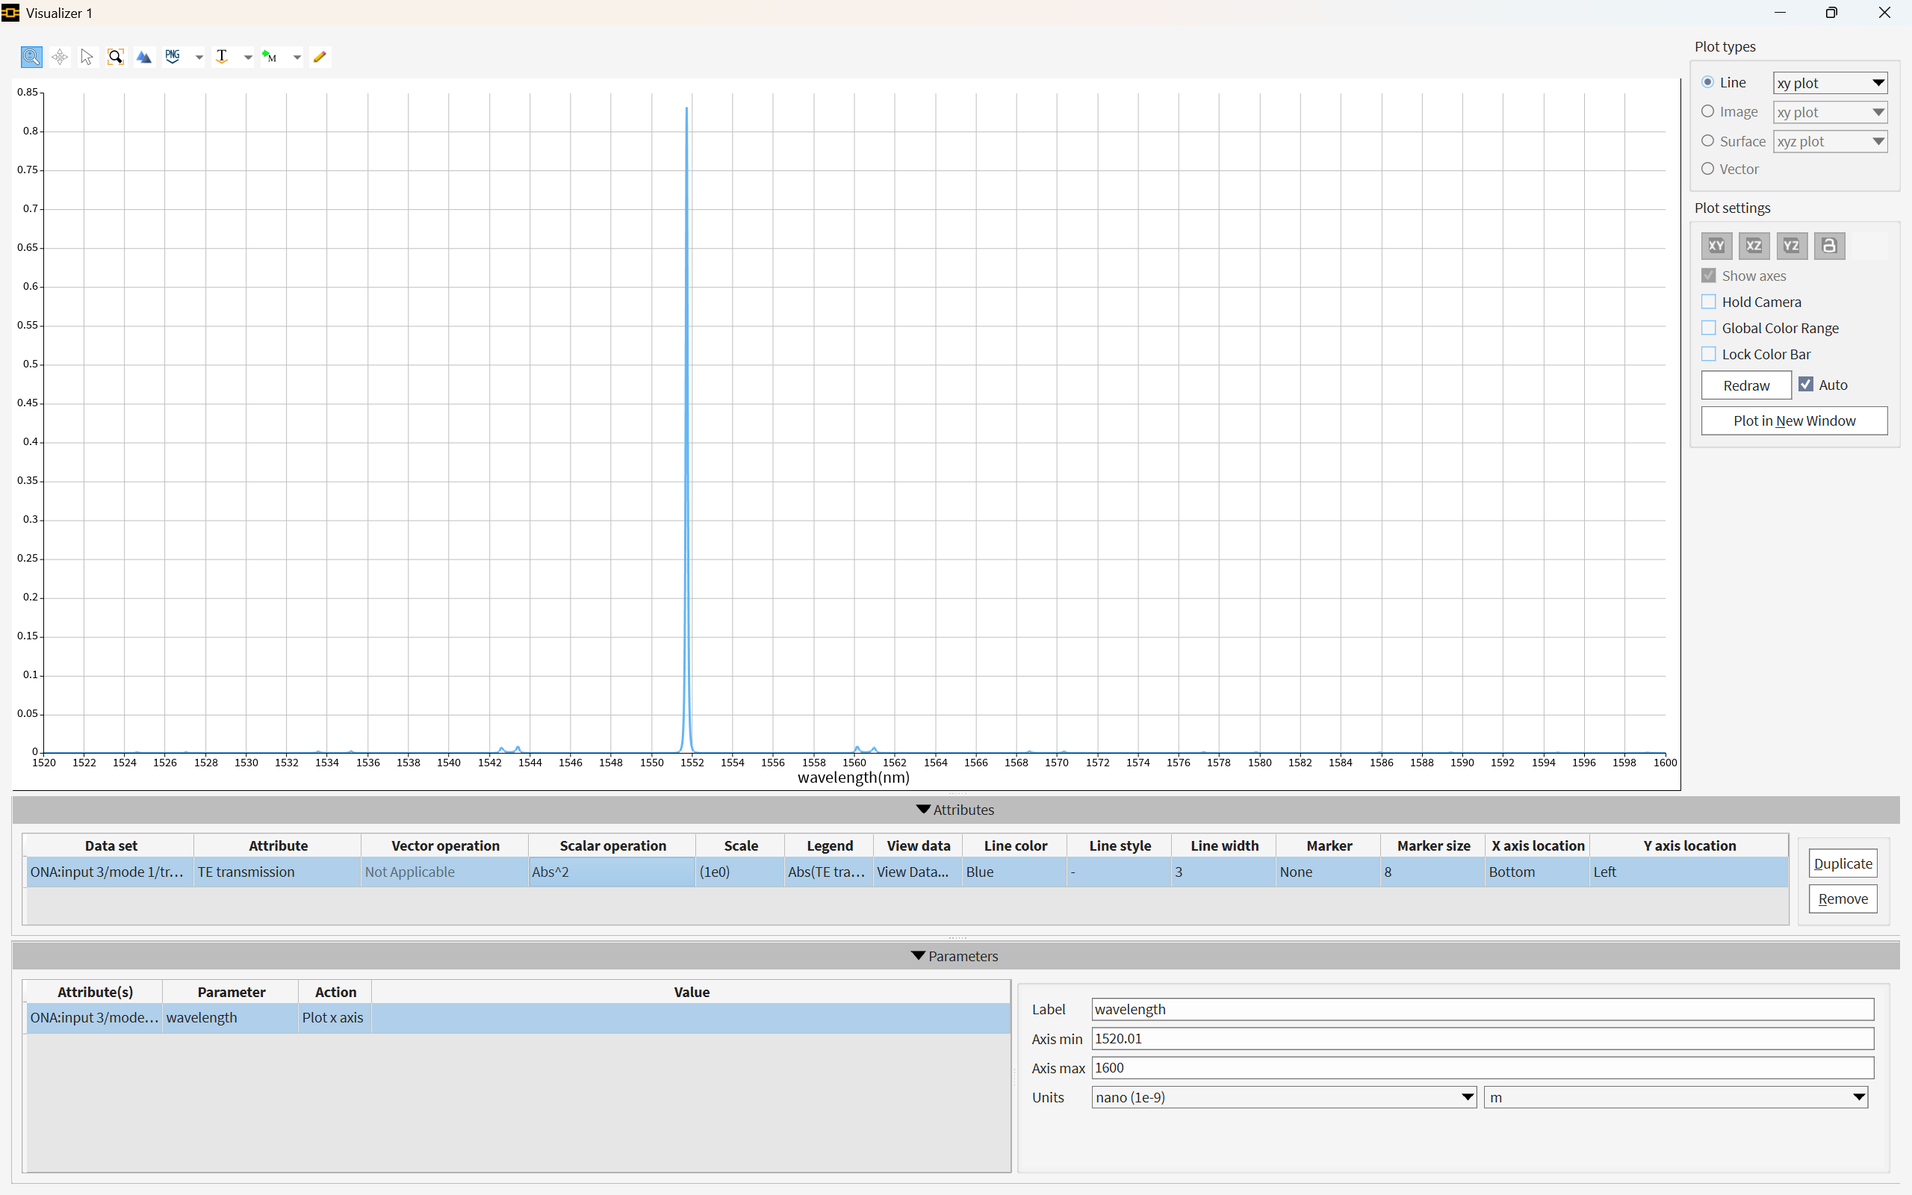
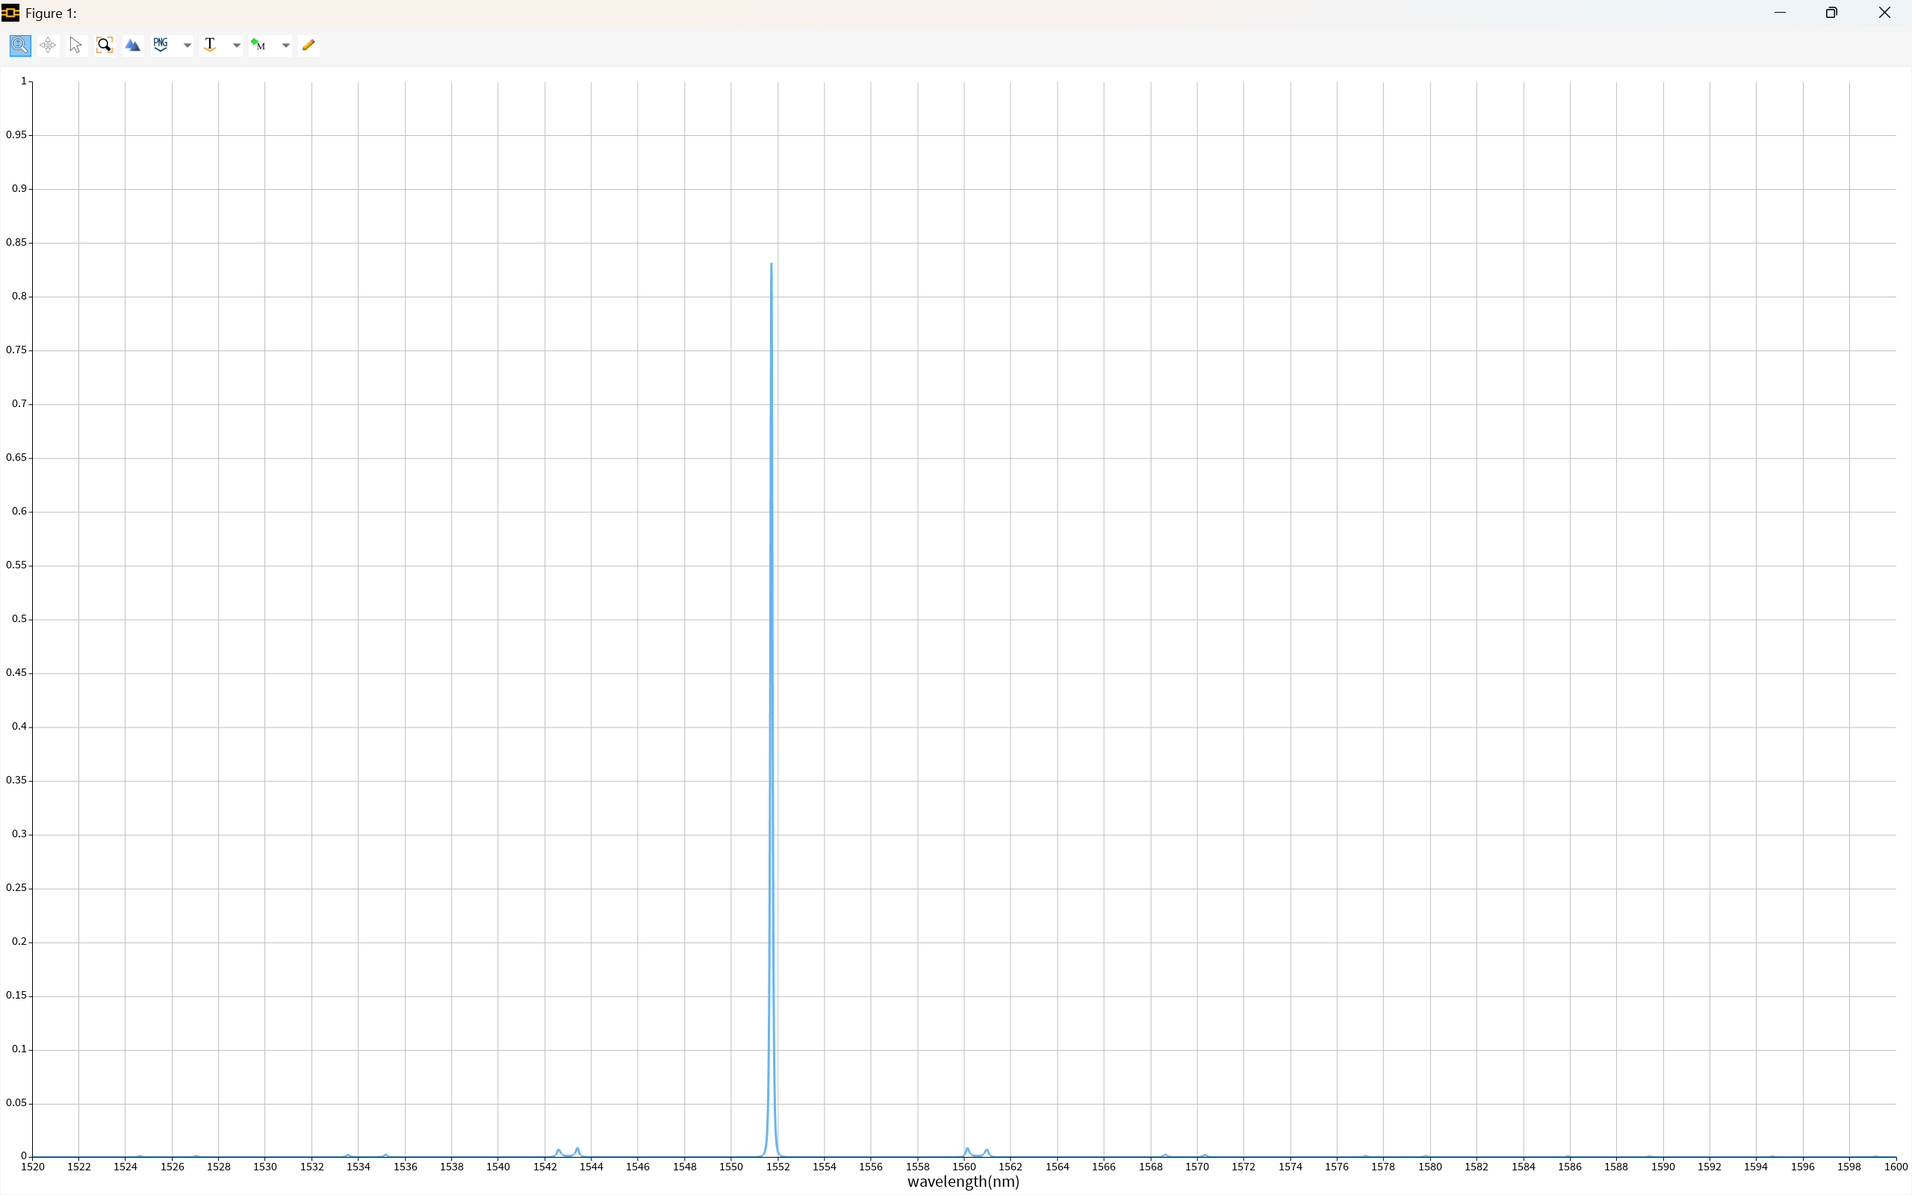
sim: scan s09 adjacent ring peak transfer

diff --git a/projects/case-002-vernier-optics/scripts/06_scan_ring_index_tuning.py b/projects/case-002-vernier-optics/scripts/06_scan_ring_index_tuning.py
@@ -1,0 +1,177 @@
+"""Scan the aligned ring's effective index and save native INTERCONNECT projects.
+
+The sweep is optical only. It does not infer voltage, temperature, or heater power.
+"""
+from __future__ import annotations
+
+import argparse
+import importlib.util
+import json
+import logging
+import math
+import sys
+from datetime import datetime
+from pathlib import Path
+
+import numpy as np
+
+CASE = Path(__file__).resolve().parents[1]
+CONFIG = CASE / "config" / "07_index_tuning_scan.json"
+API = Path(r"D:\Program Files\Lumerical\v242\api\python")
+
+
+def load_alignment_module():
+    path = CASE / "scripts" / "04_dual_ring_static_alignment.py"
+    spec = importlib.util.spec_from_file_location("ring_alignment", path)
+    if spec is None or spec.loader is None:
+        raise RuntimeError(f"Cannot load alignment module: {path}")
+    module = importlib.util.module_from_spec(spec)
+    spec.loader.exec_module(module)
+    return module
+
+
+def main() -> int:
+    parser = argparse.ArgumentParser()
+    parser.add_argument("--config", default=CONFIG.name)
+    args = parser.parse_args()
+    scan_config = (CASE / "config" / args.config).resolve()
+    if not scan_config.is_relative_to((CASE / "config").resolve()) or not scan_config.is_file():
+        raise FileNotFoundError("Scan config is unavailable or outside this case")
+    scan = json.loads(scan_config.read_text(encoding="utf-8-sig"))
+    config_path = (CASE / "config" / scan["alignment_config"]).resolve()
+    if not config_path.is_relative_to((CASE / "config").resolve()):
+        raise ValueError("Alignment config must stay within this case")
+    fractions = [float(x) for x in scan["index_offset_fractions"]]
+    if not fractions or len(set(fractions)) != len(fractions):
+        raise ValueError("index_offset_fractions must be nonempty and distinct")
+    if any(not math.isfinite(x) or x < 0 for x in fractions):
+        raise ValueError("Every fraction must be finite and nonnegative")
+    prefix = scan["run_prefix"]
+    if not isinstance(prefix, str) or not prefix.replace("_", "").isalnum():
+        raise ValueError("Invalid run prefix")
+
+    aligner = load_alignment_module()
+    align, cold = aligner.load_config(config_path)
+    helper = aligner.load_cold_builder()
+    run_id = f"{prefix}_{datetime.now():%Y%m%d_%H%M%S_%f}"
+    run_dir = CASE / "results" / "runs" / run_id
+    log_dir = CASE / "results" / "logs" / run_id
+    run_dir.mkdir(parents=True, exist_ok=False)
+    log_dir.mkdir(parents=True, exist_ok=False)
+    logging.basicConfig(filename=log_dir / "driver.log", filemode="w",
+                        level=logging.INFO, format="%(asctime)s %(levelname)s %(message)s")
+    print(f"CONFIG={scan_config}", flush=True)
+    print(f"RUN_DIRECTORY={run_dir}", flush=True)
+    if not API.is_dir():
+        raise FileNotFoundError(f"Lumerical API unavailable: {API}")
+    sys.path.insert(0, str(API))
+    import lumapi
+
+    neff, ng = helper.load_fde_indices(lumapi)
+    radii = [float(x) for x in cold["ring_radii_m"]]
+    target = float(align["target_wavelength_m"])
+    peaks1 = aligner.single_ring_peaks(lumapi, helper, cold, radii[0], neff, ng)
+    peaks2 = aligner.single_ring_peaks(lumapi, helper, cold, radii[1], neff, ng)
+    peak1 = float(peaks1[np.argmin(np.abs(peaks1 - target))])
+    peak2 = float(peaks2[np.argmin(np.abs(peaks2 - target))])
+    if peak1 <= peak2:
+        adjusted_ring, lower_peak, chosen_peak = "ring1", peak1, peak2
+    else:
+        adjusted_ring, lower_peak, chosen_peak = "ring2", peak2, peak1
+    alignment_offset = ng * (chosen_peak - lower_peak) / lower_peak
+    if not math.isfinite(alignment_offset) or alignment_offset <= 0:
+        raise RuntimeError("No finite positive alignment offset was found")
+    logging.info("FDE neff=%g ng=%g; tuned ring=%s; alignment offset=%g",
+                 neff, ng, adjusted_ring, alignment_offset)
+
+    rows = []
+    first_ring_fsr = chosen_peak**2 / (ng * 2 * math.pi * radii[0])
+    shorter_order = chosen_peak - first_ring_fsr
+    for fraction in fractions:
+        label = f"{fraction:.3f}".replace(".", "p")
+        project = run_dir / f"dual_ring_index_fraction_{label}.icp"
+        ic = None
+        try:
+            ic = lumapi.INTERCONNECT(hide=True)
+            aligner.build_cascaded(ic, helper, cold, neff, ng,
+                                   adjusted_ring, fraction * alignment_offset)
+            ic.run()
+            for port in (1, 2, 3):
+                helper.validate_ona_spectrum(ic, port)
+            wave, power = aligner.spectrum(ic, 3)
+            candidates = aligner.local_maxima(wave, power)
+            nearest = int(candidates[np.argmin(np.abs(wave[candidates] - chosen_peak))])
+            shorter = int(candidates[np.argmin(np.abs(wave[candidates] - shorter_order))])
+            strongest = int(np.argmax(power))
+            peak_nm = float(wave[nearest] * 1e9)
+            peak_power = float(power[nearest])
+            ic.save(str(project))
+            logging.info("fraction=%g; delta_neff=%g; shorter-order peak=%g nm power=%g; center-order peak=%g nm power=%g; global maximum=%g nm power=%g; project=%s",
+                         fraction, fraction * alignment_offset,
+                         wave[shorter] * 1e9, power[shorter], peak_nm, peak_power,
+                         wave[strongest] * 1e9, power[strongest], project)
+            rows.append((fraction, project.name,
+                         float(wave[shorter] * 1e9), float(power[shorter]),
+                         peak_nm, peak_power,
+                         float(wave[strongest] * 1e9), float(power[strongest])))
+            print(f"COMPLETED_PROJECT={project}", flush=True)
+        finally:
+            if ic is not None:
+                ic.close()
+
+    table = "\n".join(
+        f"| {f:g} | `{name}` | {short_w:.3f} / {short_p:.4g} | "
+        f"{center_w:.3f} / {center_p:.4g} | {top_w:.3f} / {top_p:.4g} |"
+        for f, name, short_w, short_p, center_w, center_p, top_w, top_p in rows)
+    screenshots = "\n".join(
+        f"| `fraction_{f:.3f}.png` | `{name}` → `ONA → input 3 → mode 1 → transmission` | 峰值功率、峰位和旁峰 |"
+        for f, name, *_ in rows)
+    readme = f"""# 双微环折射率扫描
+
+## 算例做了什么
+
+本次只扫描电路模型中 `{adjusted_ring}` 的有效折射率。折射率改变量等于
+`fraction × {alignment_offset:.9g}`；1.0 对应 s05 的静态对齐输入。
+各 fraction 是配置中的探索值，不代表电压、温度或实测数据。
+此轮比较相邻短波谐振阶次与中心阶次的 Drop2 峰值变化；一个工程对应一个固定 fraction，
+不同工程按 fraction 从小到大打开即可查看峰高交换，不生成动态图。
+
+## 工程文件
+
+| fraction | 原生工程 | 短波侧局部峰 nm / 功率 | 中心局部峰 nm / 功率 | 全带最高峰 nm / 功率 |
+|---:|---|---:|---:|---:|
+{table}
+
+## 工程打开后使用方法
+
+用 Lumerical INTERCONNECT 打开上表对应的 `.icp`，在原理图选 `ONA`。
+在 Result View 展开 `input 3 → mode 1 → transmission`，双击并在
+Visualizer 把 `Scalar operation` 设为 `Abs^2`、横轴设为 wavelength，
+得到 Drop2 功率透射谱。`input 1` 为 Through，`input 2` 为 Drop1。
+
+## 可以得到的结果（及截图）
+
+| 截图 | 对应工程和位置 | 重点 |
+|---|---|---|
+{screenshots}
+
+截图由用户保存到 `results/figures/{run_id}/`。逐张截图保持波长范围 1520～1600 nm、
+功率透射率纵轴 0～1，Scalar operation 为 `Abs^2`。
+表中“短波侧局部峰”按环 1 的 FSR 估算位置搜索，“中心局部峰”按静态对齐波长搜索；
+“全带最高峰”直接取 ONA 结果中的最大功率点。三者不能混为同一条连续移动的峰。
+"""
+    (run_dir / "README.md").write_text(readme, encoding="utf-8")
+    print(f"LOG_DIRECTORY={log_dir}", flush=True)
+    print(f"SCREENSHOT_DIRECTORY={CASE / 'results' / 'figures' / run_id}", flush=True)
+    return 0
+
+
+if __name__ == "__main__":
+    try:
+        status = main()
+    except BaseException as exc:
+        logging.exception("Index scan failed")
+        print(f"SIMULATION_ERROR={type(exc).__name__}: {exc}", file=sys.stderr, flush=True)
+        status = 1
+    print(f"SIM_DONE_STATUS={status}", flush=True)
+    raise SystemExit(status)

diff --git a/projects/case-002-vernier-optics/results/runs/s09_ring_peak_transfer_20261108_214832_926296/README.md b/projects/case-002-vernier-optics/results/runs/s09_ring_peak_transfer_20261108_214832_926296/README.md
@@ -1,0 +1,73 @@
+# 双微环折射率扫描
+
+## 算例做了什么
+
+本次只扫描电路模型中 `ring2` 的有效折射率。折射率改变量等于
+`fraction × 0.00672575676`；1.0 对应 s05 的静态对齐输入。
+各 fraction 是配置中的探索值，不代表电压、温度或实测数据。
+此轮比较相邻短波谐振阶次与中心阶次的 Drop2 峰值变化；一个工程对应一个固定 fraction，
+不同工程按 fraction 从小到大打开即可查看峰高交换，不生成动态图。
+
+## 工程文件
+
+| fraction | 原生工程 | 短波侧局部峰 nm / 功率 | 中心局部峰 nm / 功率 | 全带最高峰 nm / 功率 |
+|---:|---|---:|---:|---:|
+| 0.75 | `dual_ring_index_fraction_0p750.icp` | 1542.616 / 0.1243 | 1551.699 / 0.01346 | 1542.743 / 0.1387 |
+| 0.8 | `dual_ring_index_fraction_0p800.icp` | 1542.596 / 0.04732 | 1551.699 / 0.02088 | 1542.880 / 0.05545 |
+| 0.85 | `dual_ring_index_fraction_0p850.icp` | 1542.586 / 0.025 | 1551.689 / 0.0371 | 1551.353 / 0.04364 |
+| 0.9 | `dual_ring_index_fraction_0p900.icp` | 1542.577 / 0.01544 | 1551.679 / 0.08404 | 1551.481 / 0.09627 |
+| 0.91 | `dual_ring_index_fraction_0p910.icp` | 1542.577 / 0.01422 | 1551.669 / 0.1045 | 1551.511 / 0.1181 |
+| 0.92 | `dual_ring_index_fraction_0p920.icp` | 1542.577 / 0.01314 | 1551.650 / 0.1338 | 1551.541 / 0.148 |
+| 0.925 | `dual_ring_index_fraction_0p925.icp` | 1542.577 / 0.01265 | 1551.561 / 0.1674 | 1551.561 / 0.1674 |
+| 0.93 | `dual_ring_index_fraction_0p930.icp` | 1542.577 / 0.01219 | 1551.580 / 0.1902 | 1551.580 / 0.1902 |
+| 0.935 | `dual_ring_index_fraction_0p935.icp` | 1542.577 / 0.01175 | 1551.590 / 0.2178 | 1551.590 / 0.2178 |
+| 0.94 | `dual_ring_index_fraction_0p940.icp` | 1542.577 / 0.01133 | 1551.610 / 0.2508 | 1551.610 / 0.2508 |
+| 0.95 | `dual_ring_index_fraction_0p950.icp` | 1542.577 / 0.01056 | 1551.630 / 0.3343 | 1551.630 / 0.3343 |
+| 0.96 | `dual_ring_index_fraction_0p960.icp` | 1542.577 / 0.00987 | 1551.650 / 0.442 | 1551.650 / 0.442 |
+| 0.98 | `dual_ring_index_fraction_0p980.icp` | 1542.577 / 0.00868 | 1551.679 / 0.693 | 1551.679 / 0.693 |
+| 1 | `dual_ring_index_fraction_1p000.icp` | 1542.577 / 0.007698 | 1551.709 / 0.8318 | 1551.709 / 0.8318 |
+
+## 工程打开后使用方法
+
+用 Lumerical INTERCONNECT 打开上表对应的 `.icp`，在原理图选 `ONA`。
+在 Result View 展开 `input 3 → mode 1 → transmission`，双击并在
+Visualizer 把 `Scalar operation` 设为 `Abs^2`、横轴设为 wavelength，
+得到 Drop2 功率透射谱。`input 1` 为 Through，`input 2` 为 Drop1。
+
+## 可以得到的结果（及截图）
+
+| 截图 | 对应工程和位置 | 重点 |
+|---|---|---|
+| `fraction_0.750.png` | `dual_ring_index_fraction_0p750.icp` → `ONA → input 3 → mode 1 → transmission` | 峰值功率、峰位和旁峰 |
+| `fraction_0.800.png` | `dual_ring_index_fraction_0p800.icp` → `ONA → input 3 → mode 1 → transmission` | 峰值功率、峰位和旁峰 |
+| `fraction_0.850.png` | `dual_ring_index_fraction_0p850.icp` → `ONA → input 3 → mode 1 → transmission` | 峰值功率、峰位和旁峰 |
+| `fraction_0.900.png` | `dual_ring_index_fraction_0p900.icp` → `ONA → input 3 → mode 1 → transmission` | 峰值功率、峰位和旁峰 |
+| `fraction_0.910.png` | `dual_ring_index_fraction_0p910.icp` → `ONA → input 3 → mode 1 → transmission` | 峰值功率、峰位和旁峰 |
+| `fraction_0.920.png` | `dual_ring_index_fraction_0p920.icp` → `ONA → input 3 → mode 1 → transmission` | 峰值功率、峰位和旁峰 |
+| `fraction_0.925.png` | `dual_ring_index_fraction_0p925.icp` → `ONA → input 3 → mode 1 → transmission` | 峰值功率、峰位和旁峰 |
+| `fraction_0.930.png` | `dual_ring_index_fraction_0p930.icp` → `ONA → input 3 → mode 1 → transmission` | 峰值功率、峰位和旁峰 |
+| `fraction_0.935.png` | `dual_ring_index_fraction_0p935.icp` → `ONA → input 3 → mode 1 → transmission` | 峰值功率、峰位和旁峰 |
+| `fraction_0.940.png` | `dual_ring_index_fraction_0p940.icp` → `ONA → input 3 → mode 1 → transmission` | 峰值功率、峰位和旁峰 |
+| `fraction_0.950.png` | `dual_ring_index_fraction_0p950.icp` → `ONA → input 3 → mode 1 → transmission` | 峰值功率、峰位和旁峰 |
+| `fraction_0.960.png` | `dual_ring_index_fraction_0p960.icp` → `ONA → input 3 → mode 1 → transmission` | 峰值功率、峰位和旁峰 |
+| `fraction_0.980.png` | `dual_ring_index_fraction_0p980.icp` → `ONA → input 3 → mode 1 → transmission` | 峰值功率、峰位和旁峰 |
+| `fraction_1.000.png` | `dual_ring_index_fraction_1p000.icp` → `ONA → input 3 → mode 1 → transmission` | 峰值功率、峰位和旁峰 |
+
+截图由用户保存到 `results/figures/s09_ring_peak_transfer_20261108_214832_926296/`。逐张截图保持波长范围 1520～1600 nm、
+功率透射率纵轴 0～1，Scalar operation 为 `Abs^2`。
+表中“短波侧局部峰”按环 1 的 FSR 估算位置搜索，“中心局部峰”按静态对齐波长搜索；
+“全带最高峰”直接取 ONA 结果中的最大功率点。三者不能混为同一条连续移动的峰。
+
+## 本轮核验结论与查看顺序
+
+| 顺序 | 打开的工程 | 全带最高峰 | 作用 |
+|---:|---|---|---|
+| 1 | `dual_ring_index_fraction_0p750.icp` | 1542.743 nm / 0.1387 | 1543 nm 一侧为主峰 |
+| 2 | `dual_ring_index_fraction_0p800.icp` | 1542.880 nm / 0.05545 | 短波侧主峰减弱 |
+| 3 | `dual_ring_index_fraction_0p850.icp` | 1551.353 nm / 0.04364 | 最高峰已转到中心一侧 |
+| 4 | `dual_ring_index_fraction_0p900.icp` | 1551.481 nm / 0.09627 | 中心一侧增强 |
+| 5 | `dual_ring_index_fraction_0p925.icp` | 1551.561 nm / 0.1674 | 继续增强 |
+| 6 | `dual_ring_index_fraction_0p960.icp` | 1551.650 nm / 0.4420 | 接近对齐 |
+| 7 | `dual_ring_index_fraction_1p000.icp` | 1551.709 nm / 0.8318 | 中心对齐主峰 |
+
+其余 7 份工程见上表，可逐点补看。全带最高峰从 1543 nm 一侧切换到 1551 nm 一侧发生在 `fraction=0.80～0.85` 之间；这体现相邻谐振阶次的**主峰强弱交换**，不是同一条峰连续跨越约 9 nm。日志核对 14 份工程、每份 3 个 ONA 端口各 8001 个有效波长点，无报错。截图尚待用户在 Lumerical 中逐图核验。

diff --git a/projects/case-002-vernier-optics/README.md b/projects/case-002-vernier-optics/README.md
@@ -1,12 +1,14 @@
 # 双微环与 MZI 光学模型
 
+相邻阶主峰转换成果：[`s09_ring_peak_transfer_20261108_214832_926296`](results/runs/s09_ring_peak_transfer_20261108_214832_926296/README.md)。14 个静态折射率比例点的原生工程与日志已核验；全带最高 Drop2 峰由 `fraction=0.80` 时约 1542.88 nm 的短波侧峰，切换到 `0.85` 时约 1551.35 nm 的中心一侧峰，至 `1.00` 时约 1551.71 nm、功率透射率 0.832。截图待用户核验。
+
 密集单环微调成果：[`s09_ring_detuning_dense_20261107_181841_036966`](results/runs/s09_ring_detuning_dense_20261107_181841_036966/README.md)。11 个原生工程已核验；对齐点的 Drop2 峰值功率透射率约 0.832，偏离对齐后下降。它用于对齐敏感度比较，待用户截图复核。
 
 密集协同调谐成果：[`s08_ring_common_dense_20261107_181503_872760`](results/runs/s08_ring_common_dense_20261107_181503_872760/README.md)。13 个原生工程已核验，Drop2 主峰随共同折射率偏置从 1551.709 nm 连续移动到 1552.829 nm；待用户逐图截图复核。工程 README 给出统一显示范围与截图顺序。
 
 双环协同调谐成果：[`s07_ring_common_tuning_20261107_161037_819605`](results/runs/s07_ring_common_tuning_20261107_161037_819605/README.md)。原生谱线和[三张截图](results/figures/s07/README.md)已核验：共同折射率增量 0、0.001、0.002 时，Drop2 主峰约为 1551.709、1552.085、1552.452 nm。它尚未换算成驱动电压。
 
-单环对齐敏感度成果：[`s06_ring_index_tuning_20261107_160617_463134`](results/runs/s06_ring_index_tuning_20261107_160617_463134/README.md)。原生谱线和[三张截图](results/figures/s06/README.md)已核验：偏离对齐状态时主峰功率大幅下降；截图纵轴尚需统一后才能直接比较峰高。
+单环对齐敏感度成果：[`s06_ring_index_tuning_20261107_160617_463134`](results/runs/s06_ring_index_tuning_20261107_160617_463134/README.md)。原生谱线和[三张截图](results/figures/s06/README.md)已核验：三图统一坐标后，可比较 1543、1551.7、1560 nm 附近相邻阶主峰的强弱。
 
 当前组合光学基准：[`s05_ring_q_aligned_20261107_105136_874630`](results/runs/s05_ring_q_aligned_20261107_105136_874630/README.md)。已合并 Q 校准和静态峰对齐；原生结果和[截图](results/figures/s05/README.md)已核验。
 

diff --git a/projects/case-002-vernier-optics/scripts/README.md b/projects/case-002-vernier-optics/scripts/README.md
@@ -1,5 +1,19 @@
 # 脚本说明
 
+## `06_scan_ring_index_tuning.py`：s09 相邻阶主峰转换配置
+
+### 脚本用途
+
+| 输入 | 功能 | 原生输出与校验 |
+|---|---|---|
+| `config/11_detuning_peak_transfer.json`、`config/06_q_calibrated_alignment.json`、FDE 主模结果 | 只改变 `ring2` 的静态有效折射率；按 0.75～1.00 的 14 个比例点计算独立工程，在峰高交换区加密 | `results/runs/s09_ring_peak_transfer_*/` 中 14 份 `.icp`；核验 ONA `input 3` 的短波侧局部峰、中心局部峰和全波段最高峰。工程打开方式见该运行目录 README |
+
+此配置用于观察约 1543 nm 与 1551.7 nm 两处通带的强弱变化，不是峰位连续移动的热调谐，也不对应电压或温度。脚本只保存原生工程、日志和工程说明。
+
+### 使用方法
+
+在 `D:\SRTP_Work` 运行 `python '.\projects\case-002-vernier-optics\scripts\06_scan_ring_index_tuning.py' --config 11_detuning_peak_transfer.json`。每份工程打开后依次选 `ONA → input 3 → mode 1 → transmission`，`Scalar operation=Abs^2`；截图时三图使用同一横纵轴范围。
+
 ## `06_scan_ring_index_tuning.py`：s09 单环密集微调配置
 
 ### 脚本用途

diff --git a/projects/case-002-vernier-optics/results/figures/s07/README.md b/projects/case-002-vernier-optics/results/figures/s07/README.md
@@ -11,3 +11,5 @@
 | 结论 | 范围与限制 |
 |---|---|
 | 三张图使用一致的全波段横纵轴，主峰随共同偏置单调红移，峰值变化很小。 | 只能证明模型中的折射率调谐，不能证明热调谐或电压响应。主峰位移在 80 nm 横轴上不够醒目；展示连续移动时建议在 Visualizer 中固定 1551–1553 nm 横轴和 0–1 纵轴另行截图。 |
+
+2026-11-08 更新截图复核：三张 Figure 图窗均使用 1520～1600 nm、0～1 的相同坐标范围；可见主峰依次右移且高度近似相同，与日志数值一致。独立 Figure 截图未显示结果树和 `Scalar operation` 选择，数据入口与 `Abs^2` 仍以原生工程及日志交叉核对。无需为本轮再制作图片。
